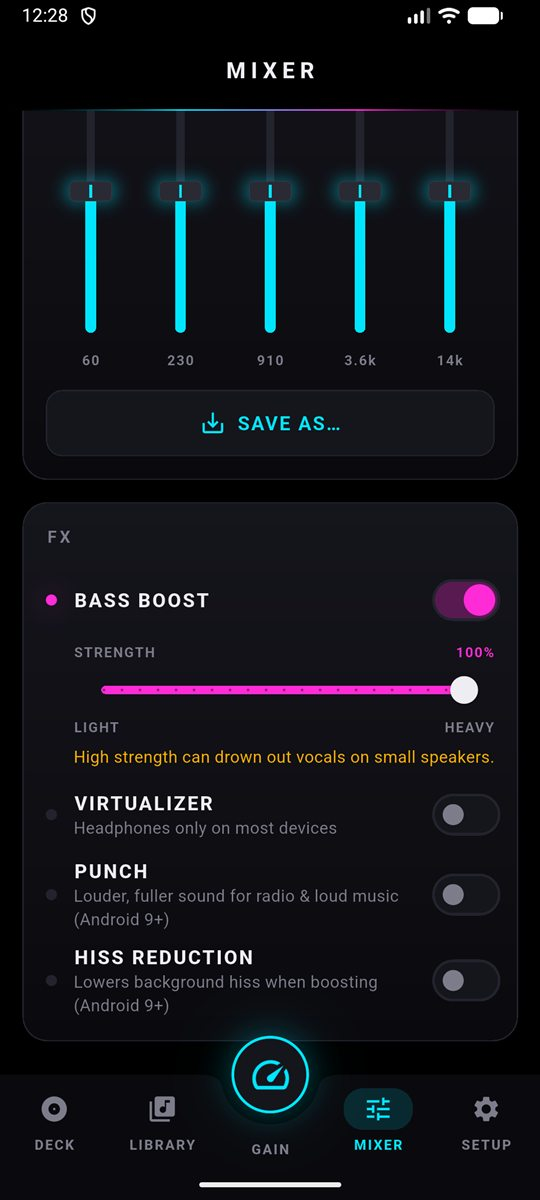
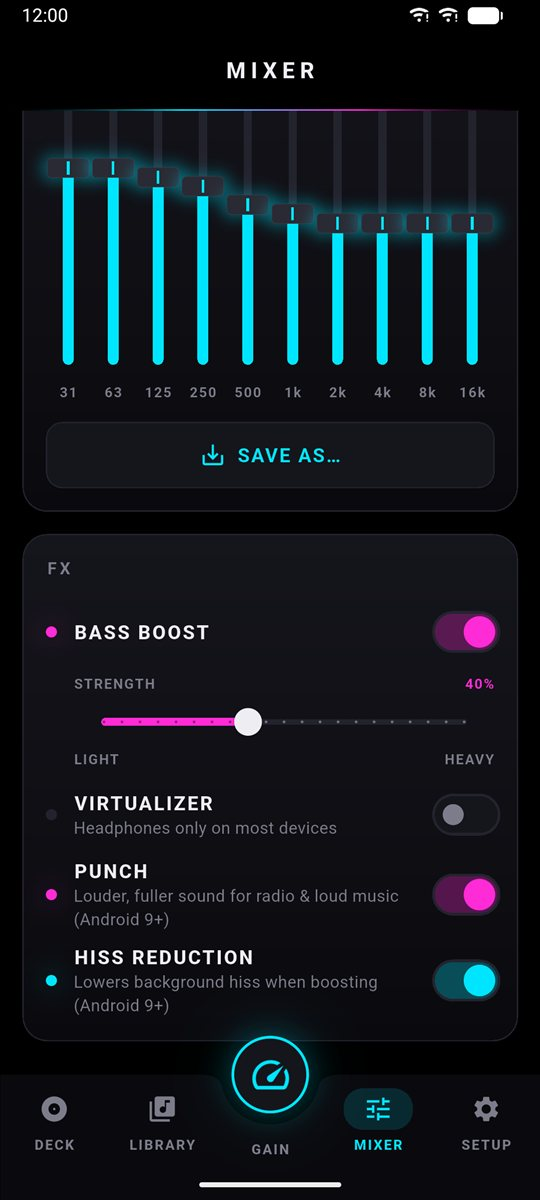
Updated the Volume Box App Page

diff --git a/volumebox/index.html b/volumebox/index.html
@@ -4,9 +4,9 @@
 <meta charset="utf-8">
 <meta name="viewport" content="width=device-width, initial-scale=1">
 <title>Volume Box: volume booster, equalizer &amp; music player</title>
-<meta name="description" content="Volume Box boosts quiet audio up to 400%, with a 5-band equalizer, Bass Boost, Punch and a music player with radio and podcasts. Free for Android, no sign-up.">
+<meta name="description" content="Volume Box boosts quiet audio up to 400% with a gain knob or one-tap buttons, a 10-band equalizer, Bass Boost, Punch and a music player with radio and podcasts. Control it from the notification. Free for Android, no sign-up.">
 <meta property="og:title" content="Volume Box by Sleepy Owl Apps">
-<meta property="og:description" content="Volume booster up to 400%, 5-band EQ and music player. Free, no sign-up.">
+<meta property="og:description" content="Volume booster up to 400%, 10-band EQ and music player. Free, no sign-up.">
 <link rel="icon" href="icon.svg" type="image/svg+xml">
 <link rel="preconnect" href="https://fonts.googleapis.com">
 <link rel="preconnect" href="https://fonts.gstatic.com" crossorigin>
@@ -37,8 +37,9 @@
     </div>
     <p class="lead muted" style="max-width:62ch;margin-top:22px;font-size:1.1rem">
       Make quiet videos, calls, podcasts and music louder and clearer. Boost up to
-      <strong>400%</strong>, shape the sound with a 5-band equalizer, add Bass Boost or Punch,
-      and play your own music, radio and podcasts, all in one dark, DJ-style app.</p>
+      <strong>400%</strong> with a knob or one tap, shape the sound with a 10-band equalizer,
+      add Bass Boost or Punch, and play your own music, radio and podcasts, all in one dark,
+      DJ-style app you can control from the notification.</p>
     <div class="actions">
       <!-- Replace with the Play Store link once the app is live:
            https://play.google.com/store/apps/details?id=com.sleepyowlapps.volumebox -->
@@ -48,7 +49,7 @@
 
     <div class="facts">
       <div class="fact"><b>400%</b><span>maximum boost</span></div>
-      <div class="fact"><b>5-band</b><span>equalizer + 11 presets</span></div>
+      <div class="fact"><b>10-band</b><span>equalizer + 11 presets</span></div>
       <div class="fact"><b>Free</b><span>no sign-up, no payments</span></div>
       <div class="fact"><b>Android 8+</b><span>phones and tablets</span></div>
     </div>
@@ -61,17 +62,43 @@
       </div>
       <div class="shots">
         <figure>
-          <img src="screens/gain.jpg" alt="GAIN screen with the master gain knob at 250%" width="540" height="1200" loading="lazy">
-          <figcaption>Master gain knob</figcaption>
+          <img src="screens/gain.jpg" alt="GAIN screen: gain knob at 300% with one-tap buttons, Global mode and the phone volume slider" width="540" height="1200" loading="lazy">
+          <figcaption>Gain knob &amp; one-tap boost</figcaption>
         </figure>
         <figure>
-          <img src="screens/presets.jpg" alt="MIXER screen with equalizer presets" width="540" height="1200" loading="lazy">
-          <figcaption>Presets &amp; equalizer</figcaption>
+          <img src="screens/presets.jpg" alt="MIXER screen: 10-band equalizer from 31 Hz to 16 kHz with the Bass Boost preset" width="540" height="1200" loading="lazy">
+          <figcaption>10-band equalizer</figcaption>
         </figure>
         <figure>
           <img src="screens/effects.jpg" alt="MIXER screen with Bass Boost, Punch and Hiss reduction switches" width="540" height="1200" loading="lazy">
           <figcaption>Bass Boost, Punch &amp; more</figcaption>
         </figure>
+      </div>
+    </div>
+  </section>
+
+  <section id="new">
+    <div class="wrap">
+      <div class="section-head">
+        <h2>New in version 1.0.2</h2>
+        <p>Made with feedback from our testers.</p>
+      </div>
+      <div class="grid">
+        <div class="card">
+          <h3>Finer sound control</h3>
+          <p>A 10-band equalizer (31&nbsp;Hz to 16&nbsp;kHz), and Bass Boost no longer makes
+            voices quieter at high volume.</p>
+        </div>
+        <div class="card">
+          <h3>Boost in one tap</h3>
+          <p>100%, 150%, 200%, 300% and MAX buttons under the knob, your phone's volume right
+            beside it, and &minus; / + in the notification.</p>
+        </div>
+        <div class="card">
+          <h3>Easier to get started</h3>
+          <p>A short tour on first launch, a tablet layout, and rate, share and feedback in
+            Settings. Updates download in the background.</p>
+        </div>
       </div>
     </div>
   </section>
@@ -86,12 +113,12 @@
         <div class="card feature">
           <div class="icon" aria-hidden="true">◉</div>
           <h3>Boost up to 400%</h3>
-          <p>A big DJ-style gain knob. A built-in limiter keeps loud audio clean instead of
-            letting it crackle.</p>
+          <p>A big DJ-style gain knob plus one-tap buttons. A built-in limiter keeps loud audio
+            clean instead of letting it crackle.</p>
         </div>
         <div class="card feature">
           <div class="icon" aria-hidden="true">≋</div>
-          <h3>5-band equalizer</h3>
+          <h3>10-band equalizer</h3>
           <p>11 presets (Bass Boost, Vocal, Rock, Podcast, Night Mode and more), plus your own
             named presets.</p>
         </div>
@@ -117,7 +144,19 @@
           <div class="icon" aria-hidden="true">◎</div>
           <h3>Radio &amp; podcasts</h3>
           <p>Thousands of live stations and podcasts, your own Subsonic or Navidrome music server,
-            or any stream link.</p>
+            or any stream link. Adult and explicit shows are left out.</p>
+        </div>
+        <div class="card feature">
+          <div class="icon" aria-hidden="true">±</div>
+          <h3>Control from anywhere</h3>
+          <p>Change the boost with &minus; and + in the notification while other apps play, and set
+            your phone's own volume right next to the knob.</p>
+        </div>
+        <div class="card feature">
+          <div class="icon" aria-hidden="true">▣</div>
+          <h3>Phones &amp; tablets</h3>
+          <p>A two-column layout on tablets and in landscape, and a short tour that shows what
+            each tab does.</p>
         </div>
       </div>
     </div>
@@ -170,6 +209,29 @@
           processes music you play inside Volume Box.</p>
       </details>
       <details>
+        <summary>Does Bass Boost make everything else quieter?</summary>
+        <p>Not any more. At high boost, extra bass used to make the limiter turn the whole sound
+          down. Since version 1.0.2 only the bass is held back, so voices keep their level. When
+          the sound is already at its loudest, extra bass can't add much, but it no longer takes
+          anything away.</p>
+      </details>
+      <details>
+        <summary>Can I change the boost without opening the app?</summary>
+        <p>Yes. In Global mode the notification shows the boost with &minus;10% and +10% buttons
+          and a Turn off button. The same free limit applies: up to 200%, or 400% after the
+          day's video.</p>
+      </details>
+      <details>
+        <summary>How do I get updates?</summary>
+        <p>Through Google Play. Volume Box also checks by itself: a new version downloads in the
+          background and a RESTART button appears when it's ready. Nothing restarts without
+          you.</p>
+      </details>
+      <details>
+        <summary>Can I see the tour again?</summary>
+        <p>Yes: Settings &rarr; Support &rarr; Show the tour.</p>
+      </details>
+      <details>
         <summary>Why does it ask for Notification access?</summary>
         <p>Only for the optional "Other apps" panel, which shows and controls what other music apps
           are playing. Volume Box doesn't read, store or share your notifications.</p>
@@ -188,8 +250,9 @@
     <div class="wrap">
       <div class="card">
         <h2>Help &amp; feedback</h2>
-        <p>Something not working, or an idea to make Volume Box better? Email us and include your
-          phone model and Android version if you can.</p>
+        <p>Something not working, or an idea to make Volume Box better? Use Settings &rarr; Send
+          feedback in the app, or email us and include your phone model and Android version if
+          you can.</p>
         <div class="actions">
           <a class="btn btn-primary" href="mailto:sleepyowlapps8@proton.me?subject=Volume%20Box">sleepyowlapps8@proton.me</a>
           <a class="btn" href="privacy-policy.html">Privacy policy</a>

diff --git a/volumebox/privacy-policy.html b/volumebox/privacy-policy.html
@@ -45,6 +45,8 @@
     <li><strong>Radio Browser</strong> (radio-browser.info) for the station directory, and the radio stations you play</li>
     <li><strong>Apple Podcasts search and charts</strong> (itunes.apple.com) to find podcasts, and the podcast hosts whose episodes you play</li>
     <li><strong>Links you paste</strong> and <strong>your own music server</strong>, if you use them</li>
+    <li><strong>Google Play</strong>, to check for app updates and to show its rating screen. These are Google Play's own screens; Volume Box doesn't receive your rating or any account details</li>
+    <li><strong>Your email app</strong>, only if you tap <em>Send feedback</em>. You see and send the message yourself</li>
   </ul>
   <p>These services receive normal connection information (such as your IP address) as part of any internet request. Their own privacy policies apply.</p>
 

diff --git a/index.html b/index.html
@@ -58,7 +58,7 @@
               <p class="muted">Volume booster, equalizer &amp; music player</p>
             </div>
           </div>
-          <p class="muted">Boost quiet audio up to 400%, shape the sound with a 5-band EQ and Bass Boost,
+          <p class="muted">Boost quiet audio up to 400%, shape the sound with a 10-band EQ and Bass Boost,
             and play your music, radio and podcasts in one place.</p>
           <div class="tags">
             <span class="tag">Free</span>
